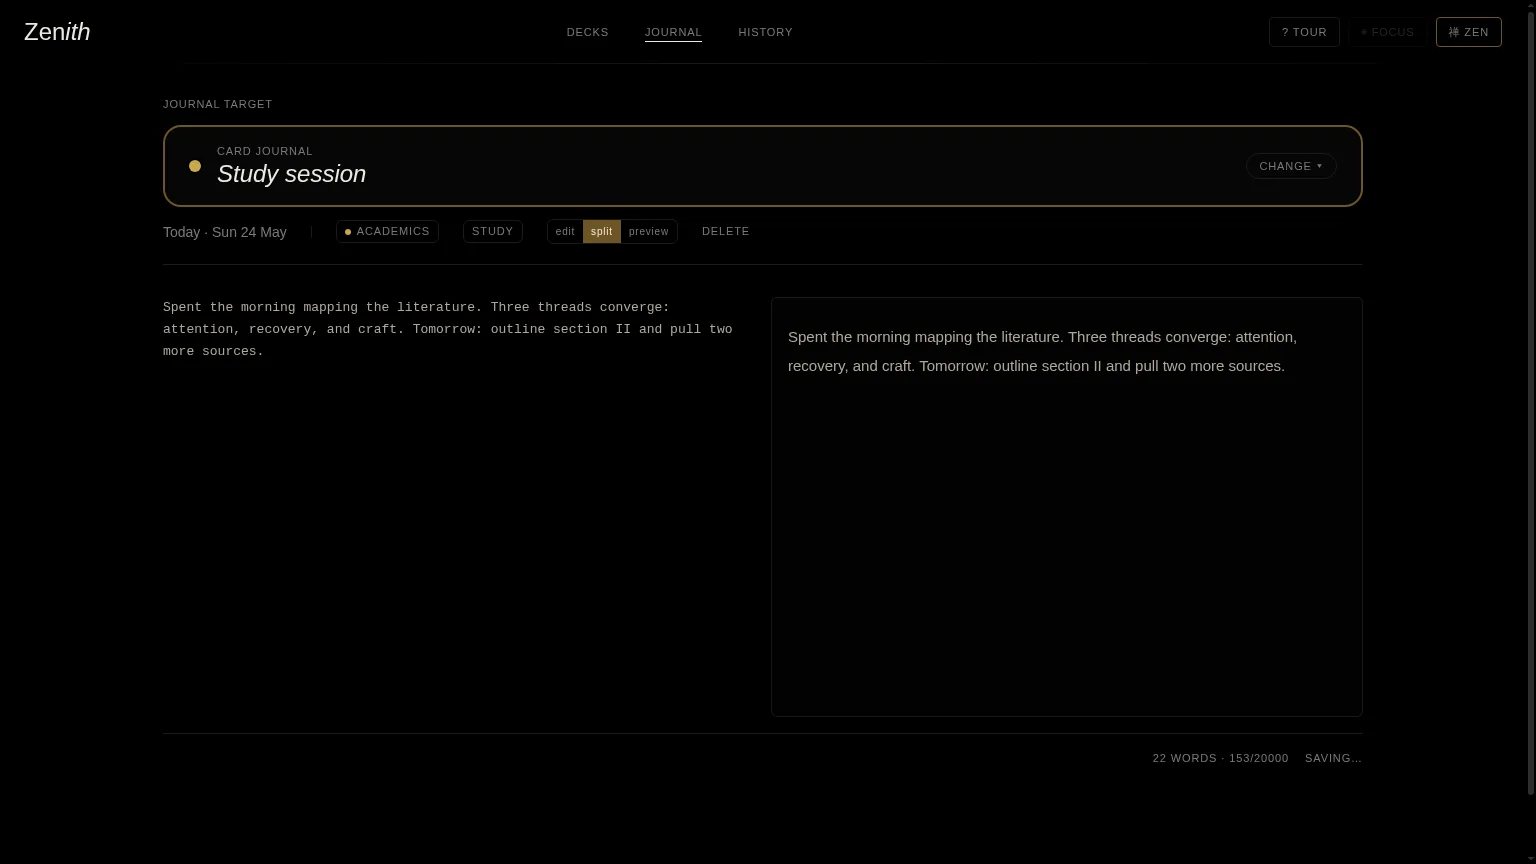
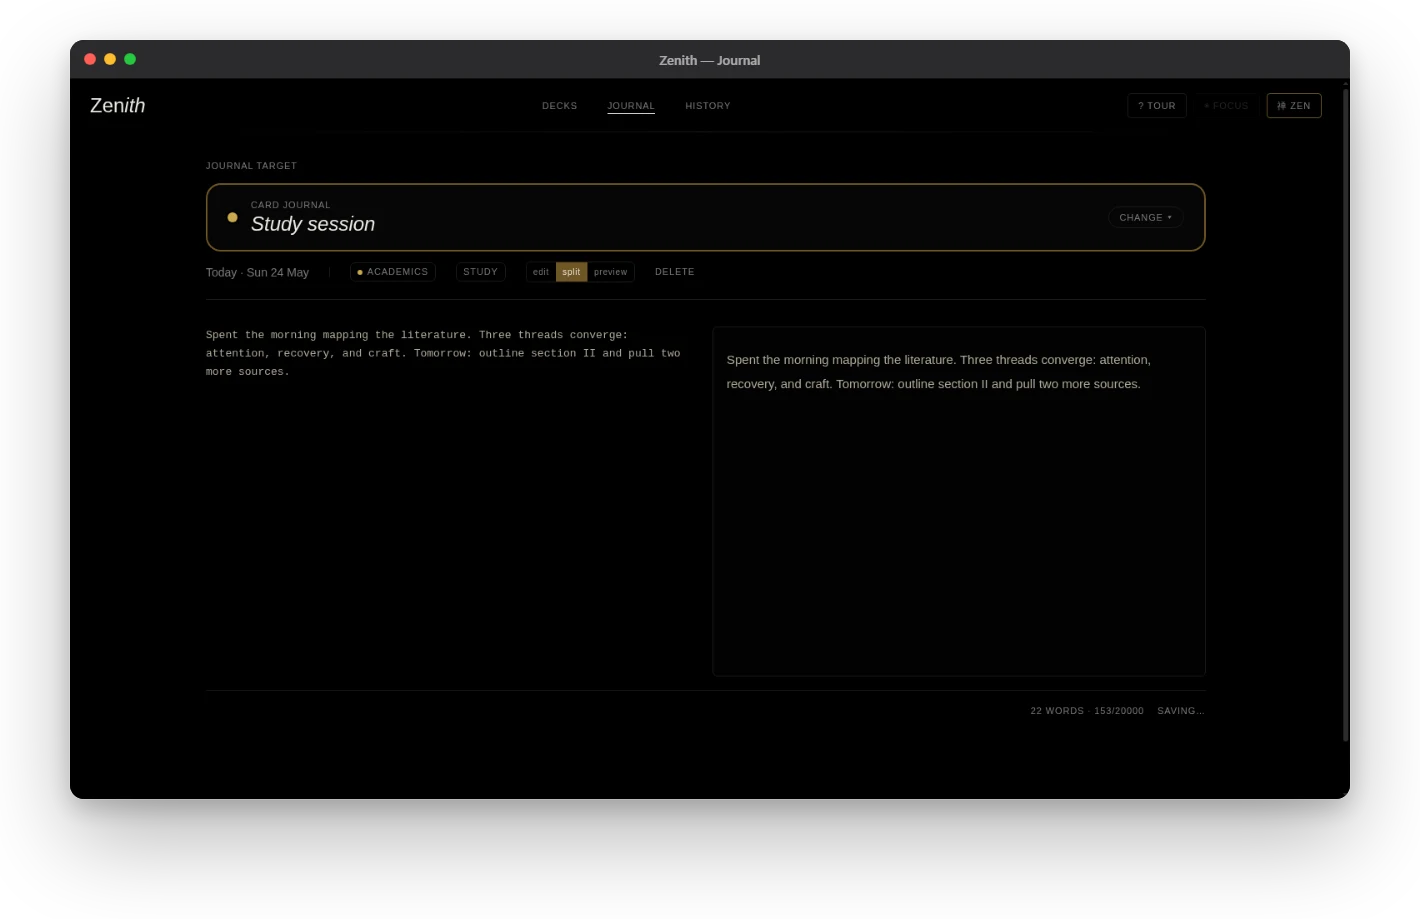
feat: Mac window frames on the Zenith and Orb View screenshots
Baked with tools/mockups (zenith decks, journal, history, zen; orb view library
and map), saved as transparent WebP with the bare frame. Raw sources are in
public/images/zenith and public/images/orb-view. The Orb View capture is from
the live site after the Me section and the Studying in Japan guide were removed.

diff --git a/src/data/projects.ts b/src/data/projects.ts
@@ -88,13 +88,13 @@ export const projects: Project[] = [
     tags: ['web'],
     repository: 'https://github.com/MooketsiMagwaza/Zenith',
     featured: true,
-    frame: 'browser',
+    frame: 'bare',
     theme: { from: '#0a0a0a', to: '#3a2f12', glow: '#c9a84c' },
     shots: [
-      { file: 'decks', alt: 'Zenith’s decks view: a deck called Academics with three timed cards for a study session, a lab, and practice', caption: 'Decks and cards, each with its own timer', w: 1536, h: 864 },
-      { file: 'journal', alt: 'Zenith’s markdown journal, one document per card or deck', caption: 'One journal per card or deck', w: 1536, h: 864 },
-      { file: 'history', alt: 'Zenith’s history view of past focus sessions', caption: 'History of what you put time into', w: 1536, h: 864 },
-      { file: 'zen', alt: 'Zenith’s full-screen Zen mode, with almost nothing on screen', caption: 'Zen mode removes everything else', w: 1536, h: 864 },
+      { file: 'decks', alt: 'Zenith’s decks view: a deck called Academics with three timed cards for a study session, a lab, and practice', caption: 'Decks and cards, each with its own timer', w: 1420, h: 919 },
+      { file: 'journal', alt: 'Zenith’s markdown journal, one document per card or deck', caption: 'One journal per card or deck', w: 1420, h: 919 },
+      { file: 'history', alt: 'Zenith’s history view of past focus sessions', caption: 'History of what you put time into', w: 1420, h: 919 },
+      { file: 'zen', alt: 'Zenith’s full-screen Zen mode, with almost nothing on screen', caption: 'Zen mode removes everything else', w: 1420, h: 919 },
     ],
   },
   {
@@ -113,11 +113,11 @@ export const projects: Project[] = [
     tags: ['web', 'docs'],
     repository: 'https://github.com/MooketsiMagwaza/orb-view',
     featured: true,
-    frame: 'browser',
+    frame: 'bare',
     theme: { from: '#0a1a33', to: '#1f5fbf', glow: '#8fd3ff' },
     shots: [
-      { file: 'library', alt: 'The Orb View library: a search field, subject filters, and cards for Me and Engineering and Technology with their topics', caption: 'The library, by subject', w: 1440, h: 900 },
-      { file: 'map', alt: 'The Orb View concept map: Entropy at the centre with eight connected ideas around it', caption: 'The concept map', w: 1440, h: 900 },
+      { file: 'library', alt: 'The Orb View library: a search field, subject filters, and cards for Me and Engineering and Technology with their topics', caption: 'The library, by subject', w: 1420, h: 999 },
+      { file: 'map', alt: 'The Orb View concept map: Entropy at the centre with eight connected ideas around it', caption: 'The concept map', w: 1420, h: 999 },
     ],
   },
   {
